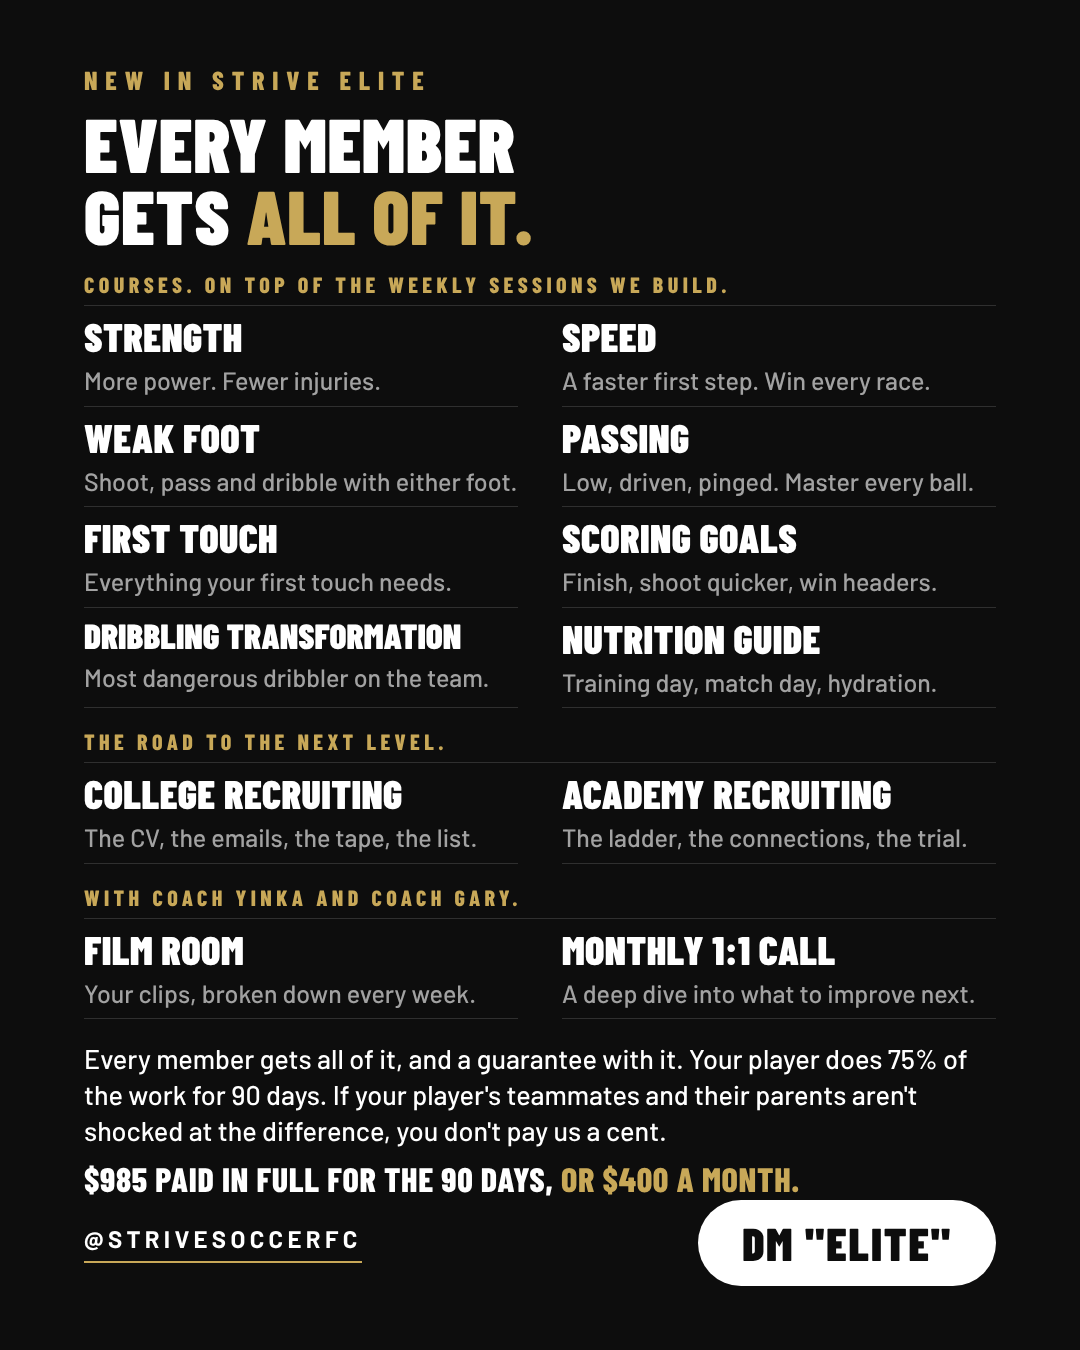
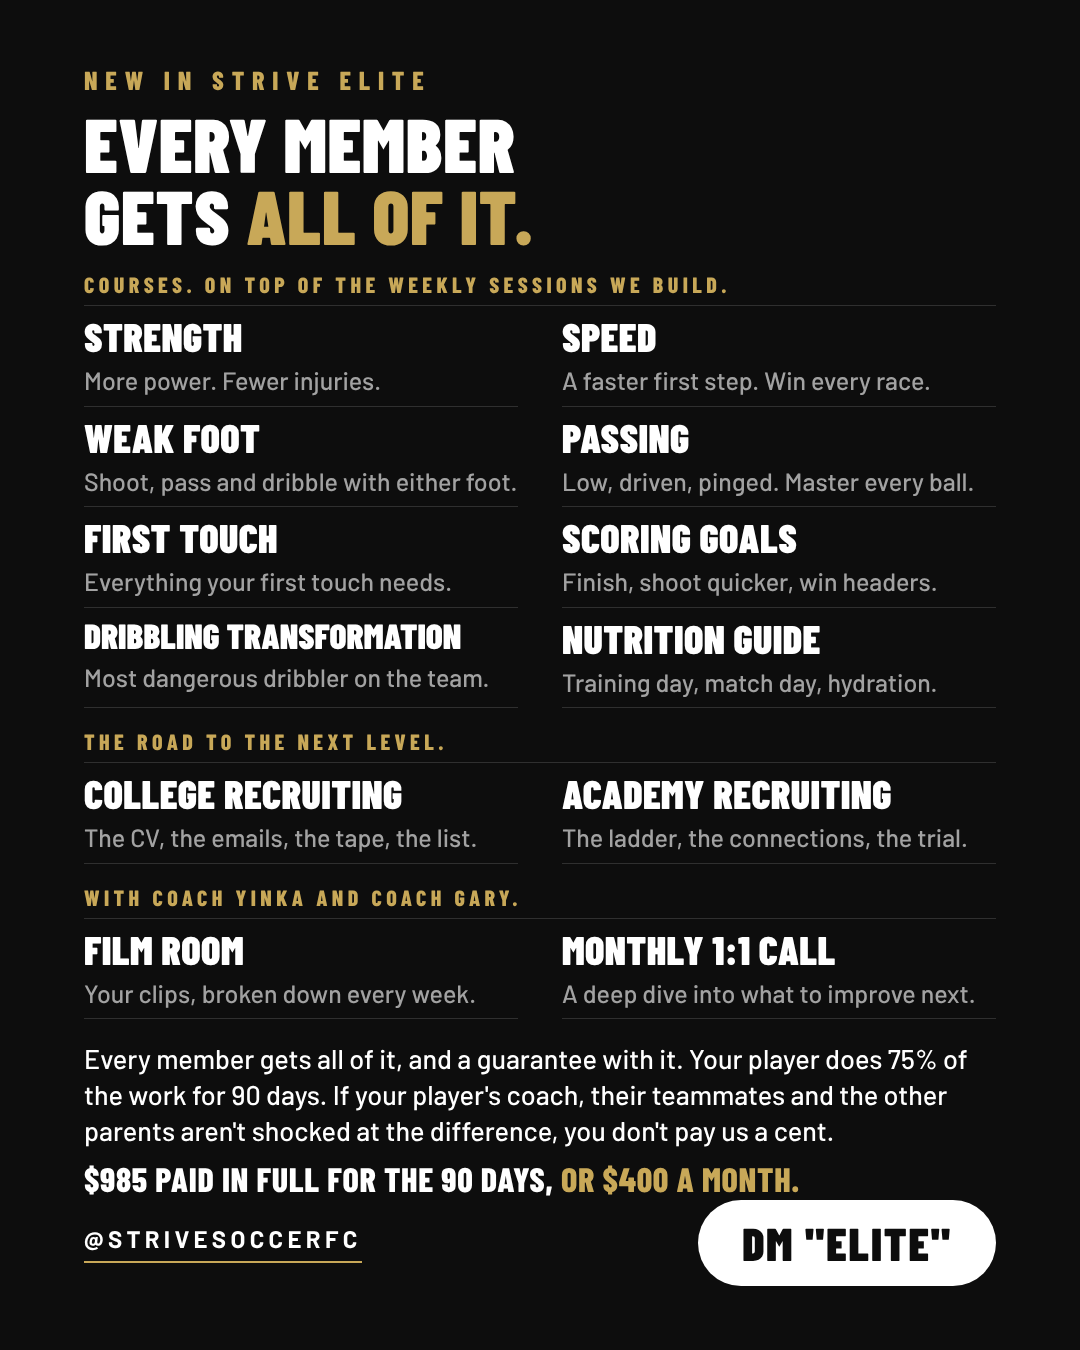
Offer carousel: guarantee names the coach, teammates and other parents
Claude-Session: https://claude.ai/code/session_011JsCTTjCbUkHbTuWTKQSXJ

Changed region(s): [[0.3667, 0.8089, 0.8861, 0.8711], [0.0917, 0.8089, 0.3361, 0.8711]]

diff --git a/marketing/announcement/offer-post/promise.html b/marketing/announcement/offer-post/promise.html
@@ -12,15 +12,15 @@ body{font-family:'Barlow',sans-serif;color:#fff;position:relative;padding:84px 8
 .gold{color:#c8a858}
 .eyebrow{font-family:'Barlow Condensed';font-weight:800;font-size:26px;letter-spacing:.3em;text-transform:uppercase;color:#c8a858}
 h1{font-family:'Barlow Condensed';font-weight:900;font-size:132px;line-height:.92;text-transform:uppercase;margin-top:22px;letter-spacing:.01em}
-.steps{margin-top:44px;border-top:1px solid rgba(255,255,255,.14)}
-.row{display:flex;gap:34px;align-items:flex-start;padding:34px 0 32px;border-bottom:1px solid rgba(255,255,255,.14)}
+.steps{margin-top:38px;border-top:1px solid rgba(255,255,255,.14)}
+.row{display:flex;gap:34px;align-items:flex-start;padding:26px 0 24px;border-bottom:1px solid rgba(255,255,255,.14)}
 .n{flex:none;width:112px;font-family:'Barlow Condensed';font-weight:900;font-size:104px;line-height:.8;color:#c8a858}
-.t{font-size:42px;line-height:1.28;font-weight:500;padding-top:2px}
+.t{font-size:40px;line-height:1.28;font-weight:500;padding-top:2px}
 .t b{font-weight:700;color:#c8a858}
 .p{font-size:48px;line-height:1.28;font-weight:500}
 .p+.p{margin-top:34px}
 .p b{font-weight:700;color:#c8a858}
-.note{margin-top:56px;font-size:27px;line-height:1.4;color:rgba(255,255,255,.62);max-width:900px}
+.note{margin-top:38px;font-size:27px;line-height:1.4;color:rgba(255,255,255,.62);max-width:900px}
 .bar{position:absolute;left:84px;right:84px;bottom:72px;display:flex;align-items:center;justify-content:space-between}
 .swipe{font-family:'Barlow Condensed';font-weight:800;font-size:22px;letter-spacing:.28em;text-transform:uppercase;display:flex;align-items:center;gap:12px}
 .swipe i{display:block;width:40px;height:2px;background:#c8a858;position:relative}
@@ -34,7 +34,7 @@ h1{font-family:'Barlow Condensed';font-weight:900;font-size:132px;line-height:.9
 
 <div class="steps">
   <div class="row"><div class="n">01</div><p class="t">Your player does <b>75% of the work</b> we give them for 90 days.</p></div>
-  <div class="row"><div class="n">02</div><p class="t">If their teammates and their parents aren't coming up to you <b>shocked</b> at the difference, <b>you don't pay us a cent.</b></p></div>
+  <div class="row"><div class="n">02</div><p class="t">If their coach, their teammates and the other parents aren't coming up to you <b>shocked</b> at the difference, <b>you don't pay us a cent.</b></p></div>
   <div class="row"><div class="n">03</div><p class="t">And we keep working with your player, <b>free</b>, until they are.</p></div>
 </div>
 

diff --git a/marketing/announcement/offer-post/post.html b/marketing/announcement/offer-post/post.html
@@ -53,7 +53,7 @@ h1{font-family:'Barlow Condensed';font-weight:900;font-size:76px;line-height:.95
   <div class="item last"><b>Monthly 1:1 Call</b><p>A deep dive into what to improve next.</p></div>
 </div>
 
-<p class="all">Every member gets all of it, and a guarantee with it. Your player does 75% of the work for 90 days. If your player's teammates and their parents aren't shocked at the difference, you don't pay us a cent.</p>
+<p class="all">Every member gets all of it, and a guarantee with it. Your player does 75% of the work for 90 days. If your player's coach, their teammates and the other parents aren't shocked at the difference, you don't pay us a cent.</p>
 <p class="price">$985 paid in full for the 90 days, <span>or $400 a month.</span></p>
 
 <div class="bar">

diff --git a/CLAUDE.md b/CLAUDE.md
@@ -3702,6 +3702,18 @@ commit.
       day 90, every dollar, on the parent's word, and the $400 monthly
       family stops paying and gets the paid months back), and that the
       free continuation has no cap. Sent.
+      THEN (Coach Yinka: "Should we change it from teammates to
+      coach / teammates / other parents. However you can word it
+      best"): step 02 now reads "If their coach, their teammates and
+      the other parents aren't coming up to you shocked at the
+      difference, you don't pay us a cent." "Other parents" replaces
+      "their parents", which could be read as the player's own. The
+      standalone post and the caption carry the same line ("If your
+      player's coach, their teammates and the other parents aren't
+      shocked at the difference"). The slide's spacing tightened for
+      the longer step. OPEN, his call at the stamp: with three
+      groups named, the day 90 test needs one rule, proposed that the
+      parent makes the call and no group has to be heard from. Sent.
 
 ## Growth target (stamped Sept 19, Coach Yinka's own call)
 

diff --git a/marketing/announcement/strive-elite-offer-post.md b/marketing/announcement/strive-elite-offer-post.md
@@ -57,7 +57,7 @@ A deep dive into what to improve next and exactly how to work on it.
 DRIBBLING TRANSFORMATION
 Thirty days of work to become the silkiest, most dangerous dribbler on the team.
 
-Every member gets all of it, and a guarantee with it. Your player does 75% of the work for 90 days. If your player's teammates and their parents aren't shocked at the difference, you don't pay us a cent. And we keep working with your player, free, until they are.
+Every member gets all of it, and a guarantee with it. Your player does 75% of the work for 90 days. If your player's coach, their teammates and the other parents aren't shocked at the difference, you don't pay us a cent. And we keep working with your player, free, until they are.
 
 For ECNL and MLS NEXT players who want the next level. Designed by players who have done just that.
 
